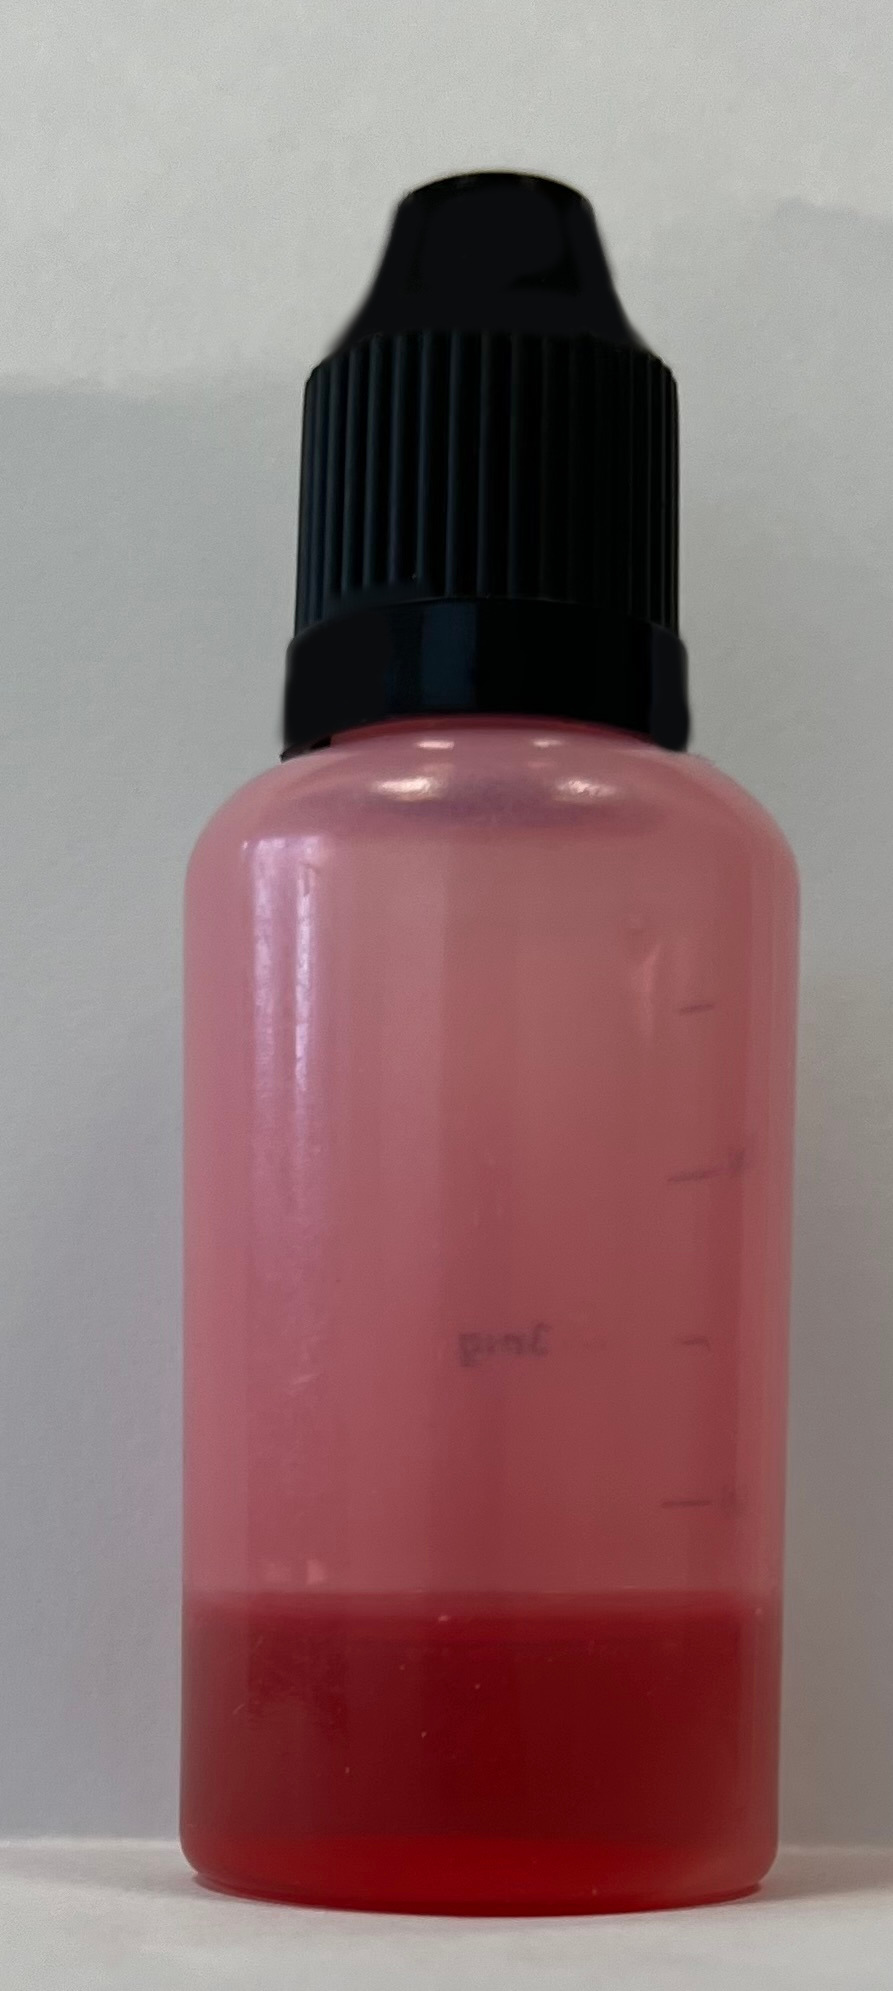
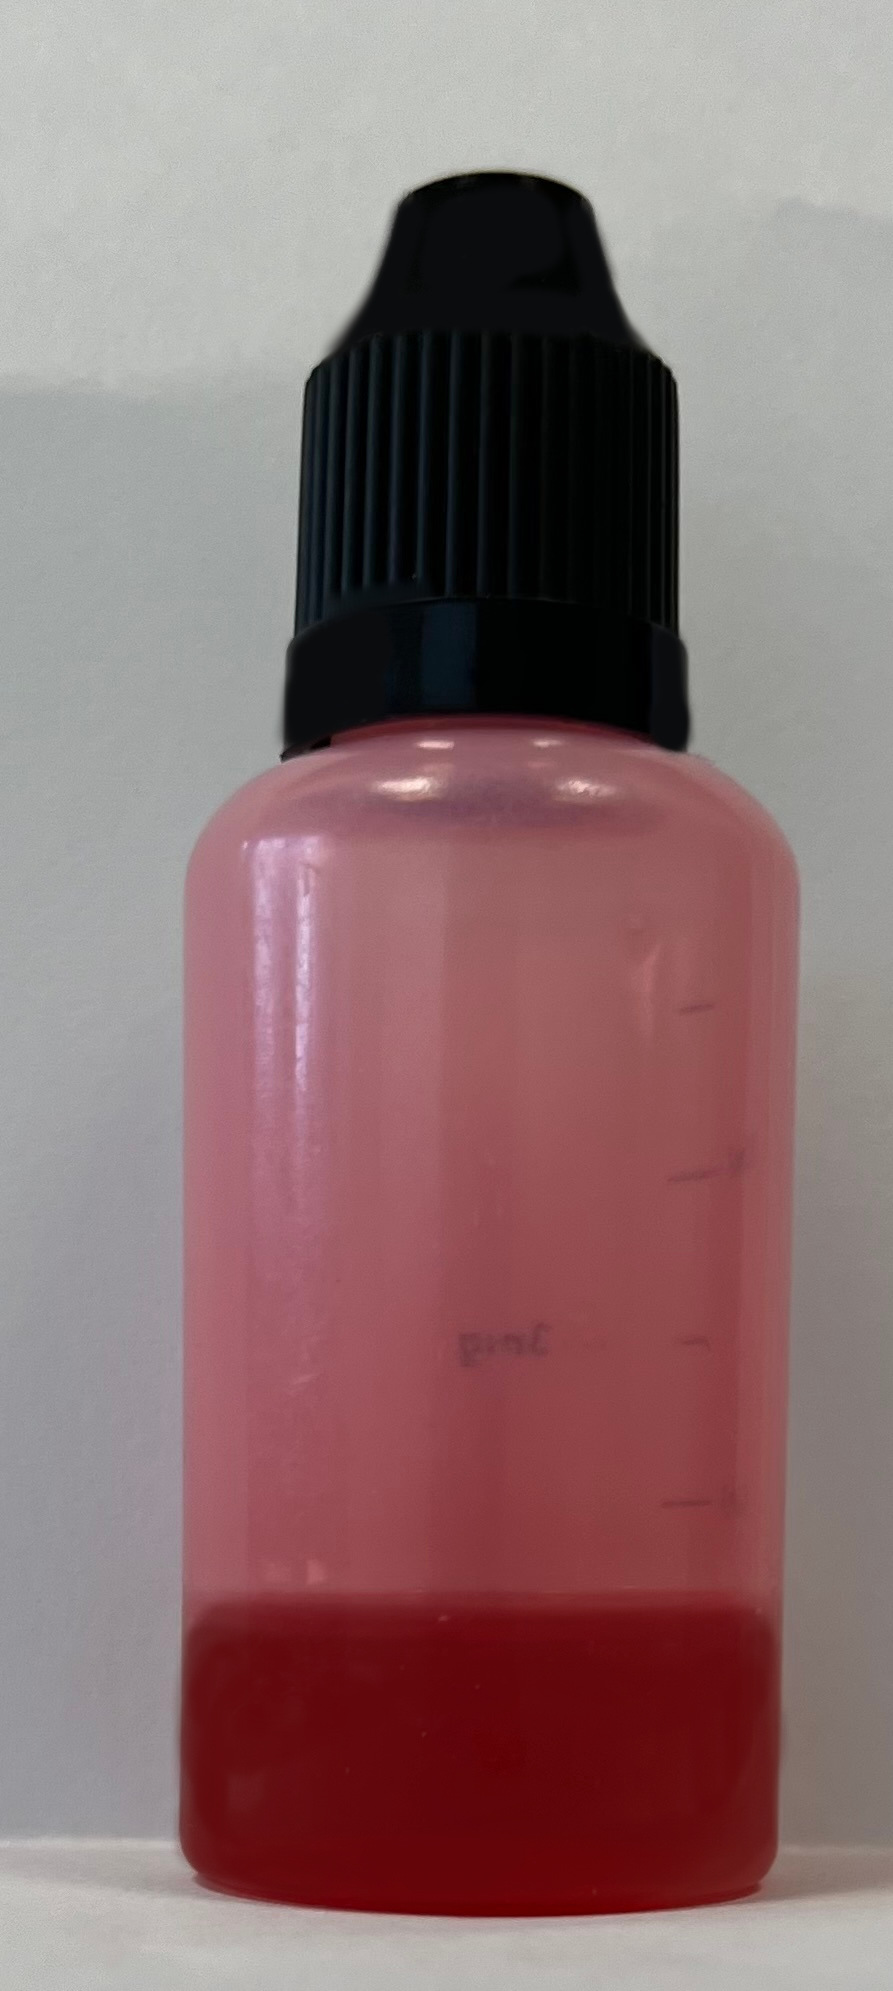
image

Changed region(s): [[0.1814, 0.8096, 0.3024, 0.9653], [0.8163, 0.8096, 0.8768, 0.9342]]

diff --git a/main_windows_show.m b/main_windows_show.m
@@ -1,0 +1,69 @@
+clear all;
+close all;
+
+%Chargement et redimensionnement image
+img = imread('img_test.jpg');
+figure(1)
+imshow(img);title('Image Originale');
+
+img = imresize(img, [500 500]);
+figure(2)
+imshow(img);title('Image Redimensionnée');
+
+%Conversion NVG
+img_nvg = rgb2gray(img);
+figure(3)
+imshow(img_nvg);title('Image en NVG');
+
+%Filtre Moyenneur
+img_moy = filtreMoyenneur(img_nvg, 3);
+figure(4)
+imshow(img_moy);title('Filtre Moyenneur');
+
+%Seuillage
+seuil=60;
+img_seuil=255*(img_moy<seuil);
+figure(5)
+imshow(img_seuil);title('Seuillage');
+
+%Traitement = Ouverture (Erosion puis Dilatation)
+%Erosion
+img_ero1=filtreEro(img_seuil, 3);
+img_ero2=filtreEro(img_ero1, 3);
+img_ero3=filtreEro(img_ero2, 3);
+figure(6)
+imshow(img_ero3);title('Errosion');
+
+%Dilatation
+img_reDilat1=filtreDilat(img_ero3, 3);
+img_reDilat2=filtreDilat(img_reDilat1, 3);
+figure(7)
+imshow(img_reDilat2);title('Dilatation (Fin Ouverture)');
+
+%Segmentation
+img_seg = segmentation(img_reDilat1);
+%save('img_seg.mat', 'img_seg');
+figure(8)
+imagesc(img_seg),title('Segmentation'),colorbar;
+
+%Recupere les deux etiquettes des deux objets
+obj = numerotation(img_seg);
+
+%Recupere les etiquettes
+liquide = FindLiquide(img_seg, obj(1), obj(2));
+bouchon = FindBouchon(img_seg, obj(1), obj(2));
+
+%Calcule hauteur moyenne liquide
+hauteurLiquide = MoyenneHauteurLiquide(img_seg, liquide);
+
+%Calcule la difference moyenne de hauteur entre le liquide et le bouchon
+diffBouchonLiquide = DiffMoyenneBouchonLiquide (img_seg, liquide, bouchon);
+
+%Pourcentage du remplissage
+pourcentage = hauteurLiquide/diffBouchonLiquide;
+
+pourcentage = pourcentage * 100;
+
+%Message
+message = sprintf('Le contenant est rempli à : %.2f%%.', pourcentage);
+msgbox(message, 'Mesure');
